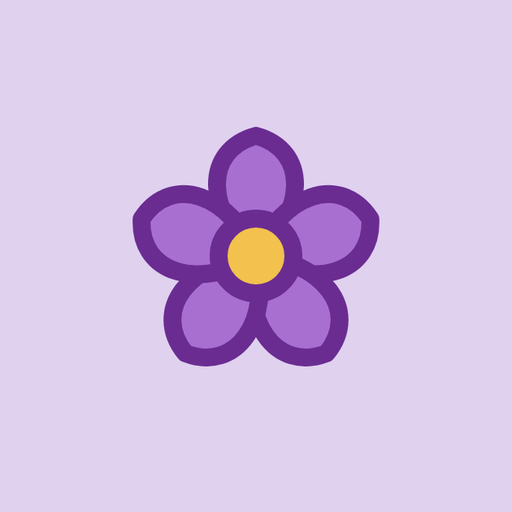
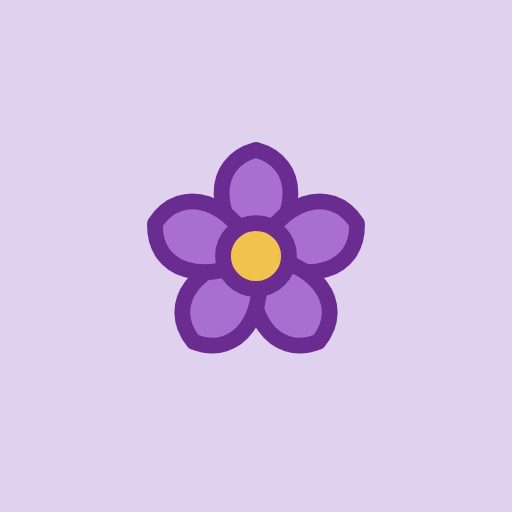
补齐小尺寸图标与 ico
- 新增 favicon-16/32/48.png 与 favicon.ico（含 16/32/48 三帧），页面补三条 link 与 mask-icon，icon.svg 补 type
- icon-maskable 两份按主站规格重做
- manifest 补 icon.svg 与 maskable 两项声明
- 新增 icons/preview.html
- background_color 由 #F7FAF8 改为 #F2ECF8

Changed region(s): [[0.25, 0.25, 0.75, 0.7188]]

diff --git a/icons/preview.html b/icons/preview.html
@@ -1,0 +1,354 @@
+<!DOCTYPE html>
+<html lang="zh-CN">
+<head>
+<meta charset="utf-8">
+<meta name="viewport" content="width=device-width, initial-scale=1">
+<title>经济学 · 图标预览</title>
+<link rel="icon" href="icon.svg" type="image/svg+xml">
+<link rel="icon" type="image/png" sizes="32x32" href="favicon-32.png">
+<link rel="apple-touch-icon" href="apple-touch-icon.png">
+<style>
+  :root{
+    --ink:#6A2C91; --ink2:#75389D; --muted:#9264B1; --faint:#A57EC0;
+    --acc:#A86FD1; --bg:#E0D1EF; --card:#FBF9FD;
+    --line:#C1A6D7; --line2:#CBB3DE;
+    --h1:#D4C0E6; --h2:#D9C7E9; --h3:#F3EEF9;
+  }
+  *{box-sizing:border-box}
+  body{
+    margin:0;padding:34px 22px 70px;
+    background:radial-gradient(900px 420px at 50% -80px,var(--h3),rgba(255,255,255,0)),var(--bg);
+    color:var(--ink2);
+    font-family:-apple-system,BlinkMacSystemFont,"Segoe UI","PingFang SC","Microsoft YaHei",sans-serif;
+    -webkit-font-smoothing:antialiased;
+  }
+  .wrap{max-width:900px;margin:0 auto}
+  header{display:flex;align-items:center;gap:16px;margin-bottom:4px}
+  header img{width:56px;height:56px;border-radius:13px;box-shadow:0 6px 18px rgba(0,0,0,.14)}
+  h1{margin:0;font-size:21px;color:var(--ink);letter-spacing:.3px}
+  .sub{margin:5px 0 0;font-size:12px;color:var(--muted)}
+  h2{font-size:14px;color:var(--ink);margin:34px 0 12px;letter-spacing:.4px}
+  .card{background:var(--card);border:1px solid var(--line);border-radius:10px;padding:18px}
+  .note{font-size:12px;color:var(--muted);line-height:1.85;margin:10px 0 0}
+  .note b{color:var(--ink)}
+  .note:first-child{margin-top:0}
+
+  /* 尺寸一览 */
+  .sizes{display:flex;flex-wrap:wrap;gap:20px;align-items:flex-end}
+  .size{display:flex;flex-direction:column;align-items:center;gap:8px}
+  .size img{display:block}
+  .size span{font-size:11px;color:var(--faint)}
+
+  /* 浅色 / 深色 */
+  .envs{display:flex;gap:16px;flex-wrap:wrap}
+  .env{display:flex;align-items:center;gap:20px;padding:14px 18px;border-radius:9px;border:1px solid}
+  .env-l{background:#FFFFFF;border-color:#E3E3E3}
+  .env-d{background:#20242B;border-color:#2E3540}
+  .env-img{display:flex;align-items:center;gap:16px}
+  .env-img img{display:block}
+  .env-l span{color:#8A8A8A}
+  .env-d span{color:#8E98A6}
+  .env-tag{font-size:11px}
+
+  /* 标签页 */
+  .tabbar{display:flex;align-items:flex-end;gap:6px;padding:9px 10px 0;background:var(--h1);border-radius:10px 10px 0 0}
+  .tab{display:flex;align-items:center;gap:8px;background:var(--card);border:1px solid var(--line);border-bottom:0;
+       border-radius:8px 8px 0 0;padding:8px 12px 9px;min-width:200px;max-width:280px}
+  .tab img{width:16px;height:16px;display:block;flex:none}
+  .tab b{font-size:12px;font-weight:500;color:var(--ink);white-space:nowrap;overflow:hidden;text-overflow:ellipsis}
+  .tab i{margin-left:auto;font-style:normal;color:var(--line2);font-size:12px}
+  .pagebar{background:var(--card);border:1px solid var(--line);border-top:0;border-radius:0 0 10px 10px;padding:10px 12px;font-size:12px;color:var(--faint)}
+  .tabbar.dk{background:#202124}
+  .tabbar.dk .tab{background:#35363A;border-color:#3C4043;border-bottom:0}
+  .tabbar.dk .tab b{color:#E8EAED}
+  .tabbar.dk .tab i{color:#8AB4F8}
+  .pagebar.dk{background:#292A2D;border-color:#3C4043;border-top:0;color:#9AA0A6}
+
+  /* 书签栏 */
+  .bmbar{display:flex;align-items:center;gap:10px;background:var(--h1);border-radius:9px;padding:8px 12px}
+  .bm{display:flex;align-items:center;gap:7px;background:var(--card);border:1px solid var(--line);border-radius:6px;padding:6px 10px}
+  .bm img{width:16px;height:16px;display:block}
+  .bm span{font-size:12px;color:var(--ink)}
+
+  /* 主屏图标 */
+  .masks{display:flex;flex-wrap:wrap;gap:26px;align-items:flex-start}
+  .mask{display:flex;flex-direction:column;align-items:center;gap:9px;width:132px}
+  .mask .frame{width:120px;height:120px;overflow:hidden;box-shadow:0 6px 18px rgba(0,0,0,.16)}
+  .frame img{width:100%;height:100%;display:block}
+  .r-ios{border-radius:27px}
+  .r-squircle{border-radius:28px}
+  .r-circle{border-radius:50%}
+  .mask span{font-size:11px;color:var(--faint);text-align:center;line-height:1.5}
+
+  /* Windows 任务栏 */
+  .winbox{display:flex;flex-direction:column;gap:14px}
+  .taskbar{display:flex;align-items:center;gap:16px;height:46px;padding:0 18px;border-radius:9px}
+  .tb-l{background:#F3F3F3;border:1px solid #E2E2E2}
+  .tb-d{background:#1F1F1F;border:1px solid #2E2E2E}
+  .tb-icon{position:relative;width:24px;height:24px;flex:none}
+  .tb-icon img{width:24px;height:24px;display:block;border-radius:3px}
+  .tb-icon::after{content:"";position:absolute;left:50%;transform:translateX(-50%);bottom:-7px;width:13px;height:2.5px;border-radius:2px}
+  .tb-l .tb-icon::after{background:#9C9C9C}
+  .tb-d .tb-icon::after{background:#8A8A8A}
+  .tb-l span{font-size:11px;color:#9A9A9A;margin-left:4px}
+  .tb-d span{font-size:11px;color:#7C7C7C;margin-left:4px}
+
+  /* 应用窗口 */
+  .appwin{max-width:560px;border:1px solid #D4D4D4;border-radius:10px;overflow:hidden;box-shadow:0 12px 30px rgba(0,0,0,.12)}
+  .titlebar{display:flex;align-items:center;gap:9px;height:38px;padding-left:13px;background:#E0D1EF}
+  .titlebar img{width:16px;height:16px;border-radius:3px;display:block}
+  .titlebar b{font-size:12px;font-weight:500;color:#6A2C91}
+  .titlebar .btns{margin-left:auto;display:flex;height:38px}
+  .titlebar .btns i{width:46px;display:flex;align-items:center;justify-content:center;font-style:normal;font-size:11px;color:#4A4A4A}
+  .winbody{background:#FAFAFA;padding:20px 16px;min-height:76px;display:flex;flex-direction:column;gap:9px}
+  .winbody .bar{height:9px;border-radius:5px;background:#E7E7EA}
+  .winbody .bar.s{width:58%}
+  .winbody .bar.m{width:78%}
+
+  /* Android 启动画面 */
+  .splash-row{display:flex;gap:26px;align-items:center;flex-wrap:wrap}
+  .stage{background:#E9E9EC;border:1px solid #DCDCE1;border-radius:14px;padding:22px 26px;display:inline-flex}
+  .phone{width:172px;height:306px;border-radius:19px;overflow:hidden;display:flex;align-items:center;justify-content:center;
+         border:1px solid rgba(0,0,0,.16);box-shadow:0 8px 20px rgba(0,0,0,.16)}
+  .phone img{width:82px;height:82px;display:block}
+  .splash-row .note{margin:0;flex:1;min-width:250px}
+
+  /* 表格 */
+  table{width:100%;border-collapse:collapse;font-size:12px}
+  th,td{text-align:left;padding:8px 10px;border-bottom:1px solid var(--h2);vertical-align:top}
+  th{color:var(--faint);font-weight:600;font-size:11px;letter-spacing:.4px}
+  td code{background:var(--h3);border:1px solid var(--h1);border-radius:4px;padding:1px 5px;font-size:11px;color:var(--ink)}
+  .dim{color:var(--muted)}
+  pre{background:var(--h3);border:1px solid var(--h1);border-radius:8px;padding:12px 14px;overflow:auto;
+      font-size:12px;line-height:1.7;color:var(--ink);margin:8px 0 0}
+  pre code{font:inherit}
+  .cap{font-size:11px;color:var(--faint);margin:0 0 10px}
+</style>
+</head>
+<body>
+<div class="wrap">
+  <header>
+    <img src="icon-192.png" alt="图标">
+    <div>
+      <h1>经济学 · 图标</h1>
+      <p class="sub">标签页 / 书签 / 桌面快捷方式 / iOS / Android</p>
+    </div>
+  </header>
+
+  <h2>多尺寸预览</h2>
+  <div class="card">
+    <div class="sizes">
+      <div class="size"><img src="favicon-16.png" width="16" height="16" alt=""><span>16</span></div>
+      <div class="size"><img src="favicon-32.png" width="32" height="32" alt=""><span>32</span></div>
+      <div class="size"><img src="favicon-48.png" width="48" height="48" alt=""><span>48</span></div>
+      <div class="size"><img src="apple-touch-icon.png" width="118" height="118" alt=""><span>180</span></div>
+      <div class="size"><img src="icon-192.png" width="118" height="118" alt=""><span>192</span></div>
+      <div class="size"><img src="icon-512.png" width="118" height="118" alt=""><span>512</span></div>
+    </div>
+  </div>
+
+  <h2>浅色 / 深色环境</h2>
+  <div class="card">
+    <p class="cap">图标本身不透明，放到深色底上会显出一块浅色方片，这是正常的。要看的是花瓣和描边分不分得开。</p>
+    <div class="envs">
+      <div class="env env-l">
+        <div class="env-img">
+          <img src="favicon-16.png" width="16" height="16" alt="">
+          <img src="favicon-32.png" width="32" height="32" alt="">
+          <img src="favicon-48.png" width="48" height="48" alt="">
+        </div>
+        <span class="env-tag">浅色</span>
+      </div>
+      <div class="env env-d">
+        <div class="env-img">
+          <img src="favicon-16.png" width="16" height="16" alt="">
+          <img src="favicon-32.png" width="32" height="32" alt="">
+          <img src="favicon-48.png" width="48" height="48" alt="">
+        </div>
+        <span class="env-tag">深色</span>
+      </div>
+    </div>
+  </div>
+
+  <h2>浏览器标签页</h2>
+  <div class="card" style="padding:0;overflow:hidden">
+    <div class="tabbar">
+      <div class="tab"><img src="favicon-16.png" alt=""><b>南开经济学 · 知识库</b><i>×</i></div>
+      <div class="tab" style="opacity:.55"><img src="favicon-16.png" alt=""><b>新标签页</b><i>×</i></div>
+    </div>
+    <div class="pagebar">地址栏左侧显示的正是 16×16 图标</div>
+  </div>
+  <div class="card" style="padding:0;overflow:hidden;margin-top:14px">
+    <div class="tabbar dk">
+      <div class="tab"><img src="favicon-16.png" alt=""><b>南开经济学 · 知识库</b><i>×</i></div>
+      <div class="tab" style="opacity:.55"><img src="favicon-16.png" alt=""><b>新标签页</b><i>×</i></div>
+    </div>
+    <div class="pagebar dk">深色主题下同一张 16×16。图标不透明，所以是一块浅色小方片，所有网站都这样</div>
+  </div>
+
+  <h2>收藏夹 / 书签栏</h2>
+  <div class="card">
+    <div class="bmbar">
+      <div class="bm"><img src="favicon-16.png" alt=""><span>经济学</span></div>
+      <div class="bm" style="opacity:.6"><img src="favicon-16.png" alt=""><span>其他书签</span></div>
+    </div>
+  </div>
+
+  <h2>主屏图标</h2>
+  <div class="card">
+    <p class="cap">系统会自己套圆角或圆形，所以要看的是裁完还剩多少花。</p>
+    <div class="masks">
+      <div class="mask"><div class="frame r-ios"><img src="apple-touch-icon.png" alt=""></div><span>iOS / iPadOS<br>180 加圆角</span></div>
+      <div class="mask"><div class="frame r-squircle"><img src="icon-maskable-512.png" alt=""></div><span>Android 圆角方形<br>maskable</span></div>
+      <div class="mask"><div class="frame r-circle"><img src="icon-maskable-512.png" alt=""></div><span>Android 圆形<br>maskable</span></div>
+    </div>
+    <p class="note">
+      安卓的圆角方形和圆形读的都是 manifest 里 <code>purpose: "maskable"</code> 那张，所以两个框里的花一样大。如果没声明 maskable，系统会拿普通图标往自适应框里塞，花会缩小并垫一圈底色。
+    </p>
+  </div>
+
+  <h2>Windows 任务栏与应用窗口</h2>
+  <div class="card">
+    <div class="winbox">
+      <div class="taskbar tb-l">
+        <div class="tb-icon"><img src="icon-192.png" alt=""></div>
+        <div class="tb-icon" style="opacity:.45"><img src="icon-192.png" alt=""></div>
+        <span>浅色任务栏 · 24×24</span>
+      </div>
+      <div class="taskbar tb-d">
+        <div class="tb-icon"><img src="icon-192.png" alt=""></div>
+        <div class="tb-icon" style="opacity:.45"><img src="icon-192.png" alt=""></div>
+        <span>深色任务栏 · 24×24</span>
+      </div>
+      <div class="appwin">
+        <div class="titlebar">
+          <img src="favicon-32.png" alt="">
+          <b>经济学</b>
+          <div class="btns"><i>—</i><i>□</i><i>✕</i></div>
+        </div>
+        <div class="winbody">
+          <div class="bar m"></div>
+          <div class="bar s"></div>
+        </div>
+      </div>
+    </div>
+    <p class="note">
+      装成应用后，任务栏取 192 或 512 那张缩到 24px 显示；窗口标题栏底色是 manifest 的 <code>theme_color</code>（<code>#E0D1EF</code>），左边那颗小图标取 32 那张。
+    </p>
+  </div>
+
+  <h2>Android 启动画面</h2>
+  <div class="card">
+    <div class="splash-row">
+      <div>
+        <div class="stage">
+          <div class="phone" style="background:#F2ECF8"><img src="icon-512.png" alt=""></div>
+        </div>
+        <p class="cap" style="margin:10px 0 0;text-align:center">底色 <code>#F2ECF8</code></p>
+      </div>
+      <p class="note">
+        点开应用那一瞬间显示的画面：底色取 manifest 的 <code>background_color</code>，中间那张来自 512 图标。<br>
+        所以背景色如果和图标底色差太远，这一下会闪；本页这张是按真实值铺的，看着不突兀就对了。
+      </p>
+    </div>
+  </div>
+
+  <h2>文件清单</h2>
+  <div class="card">
+    <table>
+      <tr><th>文件</th><th>尺寸</th><th>用途</th></tr>
+      <tr><td colspan="3" class="dim">上一级目录（站点根）</td></tr>
+      <tr><td><code>index.html</code></td><td>—</td><td>主页面，按下方写法引用本目录图标</td></tr>
+      <tr><td><code>manifest.webmanifest</code></td><td>—</td><td>PWA 声明，图标指向本目录</td></tr>
+      <tr><td colspan="3" class="dim">本目录 <code>icons/</code></td></tr>
+      <tr><td><code>icon.svg</code></td><td>矢量</td><td>标签页、书签、Safari 固定标签页的源图</td></tr>
+      <tr><td><code>icon-maskable.svg</code></td><td>矢量</td><td>上面那份加 <code>scale(0.717)</code>，留出裁切安全边距</td></tr>
+      <tr><td><code>favicon.ico</code></td><td>16/32/48</td><td>传统标签页、Windows 快捷方式</td></tr>
+      <tr><td><code>favicon-16.png</code></td><td>16</td><td>标签页、书签栏（源图直接缩放）</td></tr>
+      <tr><td><code>favicon-32.png</code></td><td>32</td><td>高分辨率标签页、书签、窗口小图标</td></tr>
+      <tr><td><code>favicon-48.png</code></td><td>48</td><td>Windows 站点图标</td></tr>
+      <tr><td><code>apple-touch-icon.png</code></td><td>180</td><td>iOS / iPadOS 添加到主屏幕</td></tr>
+      <tr><td><code>icon-192.png</code></td><td>192</td><td>Android 主屏幕、任务栏</td></tr>
+      <tr><td><code>icon-512.png</code></td><td>512</td><td>Android 启动画面 / PWA</td></tr>
+      <tr><td><code>icon-maskable-512.png</code></td><td>512</td><td>Android 自适应图标</td></tr>
+      <tr><td><code>preview.html</code></td><td>—</td><td>本页，只作查看用，不参与站点运行</td></tr>
+    </table>
+  </div>
+
+  <h2>接入方式</h2>
+  <div class="card">
+    <p class="note"><code>index.html</code> 的 <code>&lt;head&gt;</code> 里写这六条，路径都指向本目录：</p>
+<pre>&lt;link rel="icon" href="icons/icon.svg" type="image/svg+xml"&gt;
+&lt;link rel="icon" href="icons/favicon.ico" sizes="16x16 32x32 48x48"&gt;
+&lt;link rel="icon" type="image/png" sizes="32x32" href="icons/favicon-32.png"&gt;
+&lt;link rel="icon" type="image/png" sizes="16x16" href="icons/favicon-16.png"&gt;
+&lt;link rel="apple-touch-icon" sizes="180x180" href="icons/apple-touch-icon.png"&gt;
+&lt;link rel="mask-icon" href="icons/icon.svg" color="#6A2C91"&gt;</pre>
+    <p class="note">安装成应用还要靠 manifest，本目录相关的这几行是：</p>
+<pre>"icons": [
+  { "src": "icons/icon.svg",             "sizes": "any",     "type": "image/svg+xml", "purpose": "any" },
+  { "src": "icons/icon-192.png",         "sizes": "192x192", "type": "image/png",     "purpose": "any" },
+  { "src": "icons/icon-512.png",         "sizes": "512x512", "type": "image/png",     "purpose": "any" },
+  { "src": "icons/icon-maskable-512.png","sizes": "512x512", "type": "image/png",     "purpose": "maskable" }
+],
+"theme_color": "#E0D1EF",
+"background_color": "#F2ECF8"</pre>
+  </div>
+
+  <h2>设计说明</h2>
+  <div class="card">
+    <p class="note">
+      <b>配色</b>：底色 <code>#E0D1EF</code>、花瓣 <code>#A86FD1</code>、描边 <code>#6A2C91</code>、花心 <code>#F2C14E</code>。整个图标只有这四个值，换站换这四个就够。<br>
+      <b>两处底色</b>：应用窗口顶栏取 <code>theme_color</code> <code>#E0D1EF</code>，启动画面取 <code>background_color</code> <code>#F2ECF8</code>，这两项分开设置，改一处别忘了另一处。<br>
+      <b>16×16</b>：由 <code>icon.svg</code> 直接缩放，没有额外加粗。16px 已经是最小一档，描边会带一点抗锯齿，属于正常现象。<br>
+      <b>maskable 版</b>：安卓会按自己的形状裁切，所以内容缩到 71.7%，花瓣稳稳落在安全区内，圆角、圆形、水滴形怎么裁都切不到。
+    </p>
+  </div>
+
+  <h2>Svg 源码</h2>
+  <div class="card">
+    <p class="note">
+      所有尺寸都从这一个矢量源出，花型只有这一套。要换站，只改四个颜色：底色、花瓣、描边、花心。<br>
+      文件里是压成一整行的，下面按行拆开并加了注释，渲染结果与 <code>icon.svg</code> 逐像素相同，可以直接整段复制另存。
+    </p>
+<pre>&lt;svg xmlns="http://www.w3.org/2000/svg" viewBox="0 0 512 512" width="512" height="512"&gt;
+
+  &lt;!-- 底色 --&gt;
+  &lt;rect width="512" height="512" fill="#E0D1EF"/&gt;
+
+  &lt;!-- 整朵花居中：translate 定到画布中心，scale 控制大小 --&gt;
+  &lt;g transform="translate(256,256)"&gt;
+
+    &lt;!-- 一片花瓣，复制五份，靠 rotate 转出整圈；fill 花瓣色，stroke 描边色 --&gt;
+    &lt;path d="M0 0 C -62 -52, -66 -130, 0 -148 C 66 -130, 62 -52, 0 0 Z"
+          fill="#A86FD1" stroke="#6A2C91" stroke-width="22" stroke-linejoin="round"
+          transform="rotate(0)"/&gt;
+    &lt;path d="M0 0 C -62 -52, -66 -130, 0 -148 C 66 -130, 62 -52, 0 0 Z"
+          fill="#A86FD1" stroke="#6A2C91" stroke-width="22" stroke-linejoin="round"
+          transform="rotate(72)"/&gt;
+    &lt;path d="M0 0 C -62 -52, -66 -130, 0 -148 C 66 -130, 62 -52, 0 0 Z"
+          fill="#A86FD1" stroke="#6A2C91" stroke-width="22" stroke-linejoin="round"
+          transform="rotate(144)"/&gt;
+    &lt;path d="M0 0 C -62 -52, -66 -130, 0 -148 C 66 -130, 62 -52, 0 0 Z"
+          fill="#A86FD1" stroke="#6A2C91" stroke-width="22" stroke-linejoin="round"
+          transform="rotate(216)"/&gt;
+    &lt;path d="M0 0 C -62 -52, -66 -130, 0 -148 C 66 -130, 62 -52, 0 0 Z"
+          fill="#A86FD1" stroke="#6A2C91" stroke-width="22" stroke-linejoin="round"
+          transform="rotate(288)"/&gt;
+
+    &lt;!-- 花心 --&gt;
+    &lt;circle r="46" fill="#F2C14E" stroke="#6A2C91" stroke-width="22"/&gt;
+
+  &lt;/g&gt;
+&lt;/svg&gt;</pre>
+    <p class="note">
+      <b>maskable 版</b>只差一处，其余整段照抄，把那行换成：
+    </p>
+<pre>&lt;g transform="translate(256,256) scale(0.717)"&gt;</pre>
+    <p class="note">
+      0.717 是这么定的：安卓自适应图标只有中心那个直径占画布 80% 的圆一定不会被裁。花朵外接圆直径本来是画布的 62%，乘 0.717 后约 44%，四周还留一半余量，怎么裁都碰不到花瓣。
+    </p>
+  </div>
+</div>
+</body>
+</html>

diff --git a/index.html b/index.html
@@ -4,8 +4,12 @@
 <meta charset="UTF-8" />
 <meta name="viewport" content="width=device-width, initial-scale=1.0" />
 <title>南开经济学 · 知识库</title>
-<link rel="icon" href="icons/icon.svg">
-<link rel="apple-touch-icon" href="icons/apple-touch-icon.png">
+<link rel="icon" href="icons/icon.svg" type="image/svg+xml">
+<link rel="icon" href="icons/favicon.ico" sizes="16x16 32x32 48x48">
+<link rel="icon" type="image/png" sizes="32x32" href="icons/favicon-32.png">
+<link rel="icon" type="image/png" sizes="16x16" href="icons/favicon-16.png">
+<link rel="apple-touch-icon" sizes="180x180" href="icons/apple-touch-icon.png">
+<link rel="mask-icon" href="icons/icon.svg" color="#6A2C91">
 <link rel="manifest" href="manifest.webmanifest">
 <meta name="theme-color" content="#E0D1EF">
 <meta name="apple-mobile-web-app-capable" content="yes">
